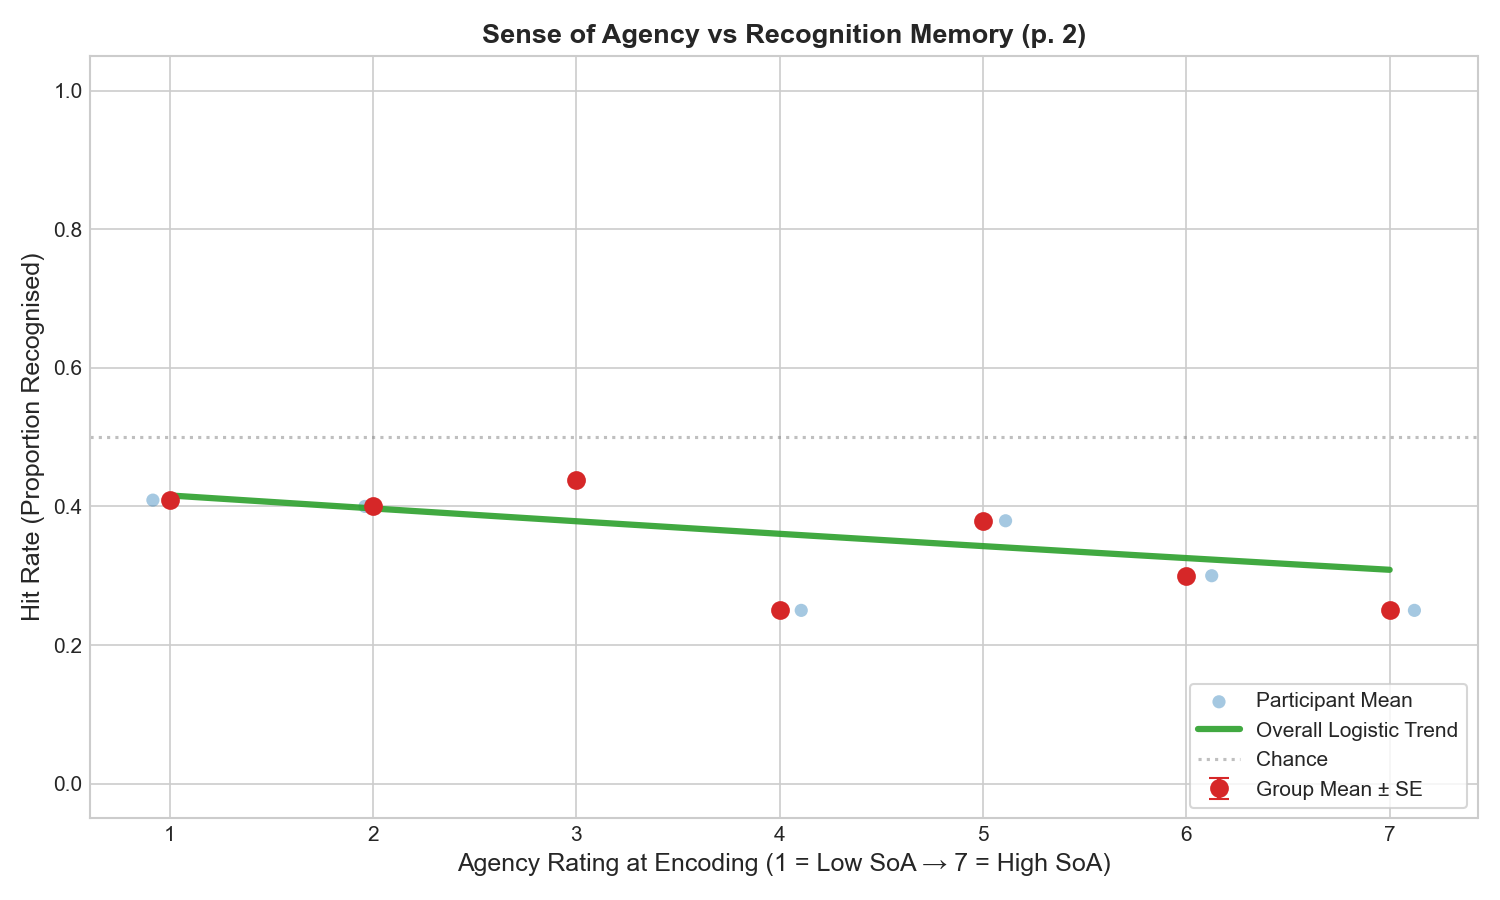
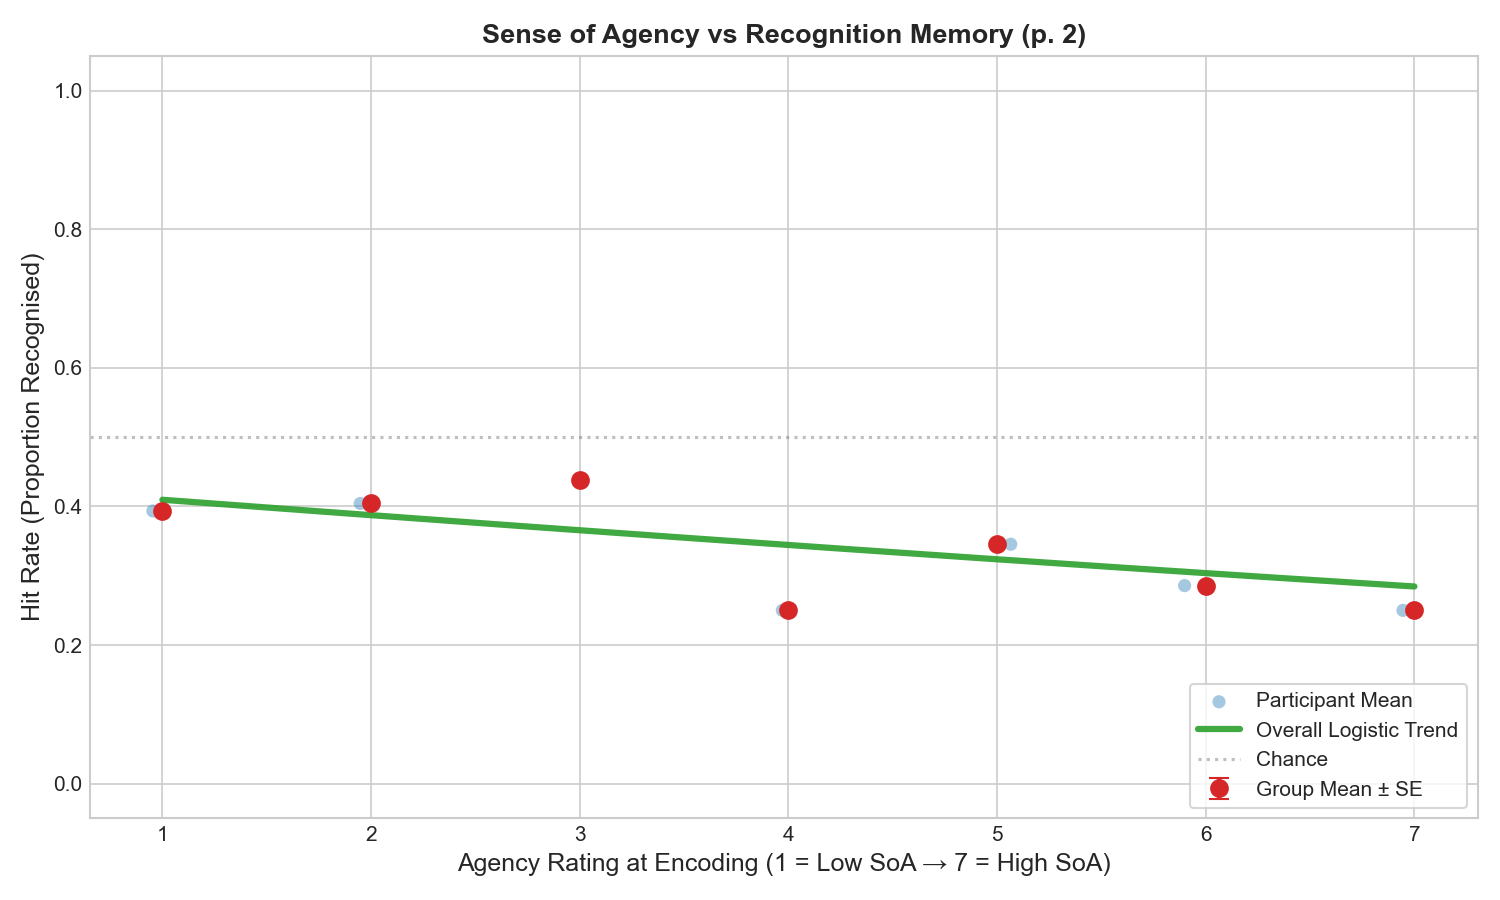
new analyses + plots

diff --git a/CDmem/CDmem_analyses.py b/CDmem/CDmem_analyses.py
@@ -65,8 +65,7 @@ for _d in (OUTPUT_DIR, POOLED_DIR, PER_PARTICIPANT_DIR):
 # Participant filter: set to a non-empty list to restrict analyses to specific
 # participant IDs, e.g. PARTICIPANT_FILTER = [2, 3].
 # Leave as an empty list [] to include ALL participants found in data files.
-PARTICIPANT_FILTER = [2,3,4]  # e.g. [2, 3]
-
+PARTICIPANT_FILTER = [2,3,4,5]  # e.g. [2, 3]
 # ============================================================================
 # DATA LOADING
 # ============================================================================
